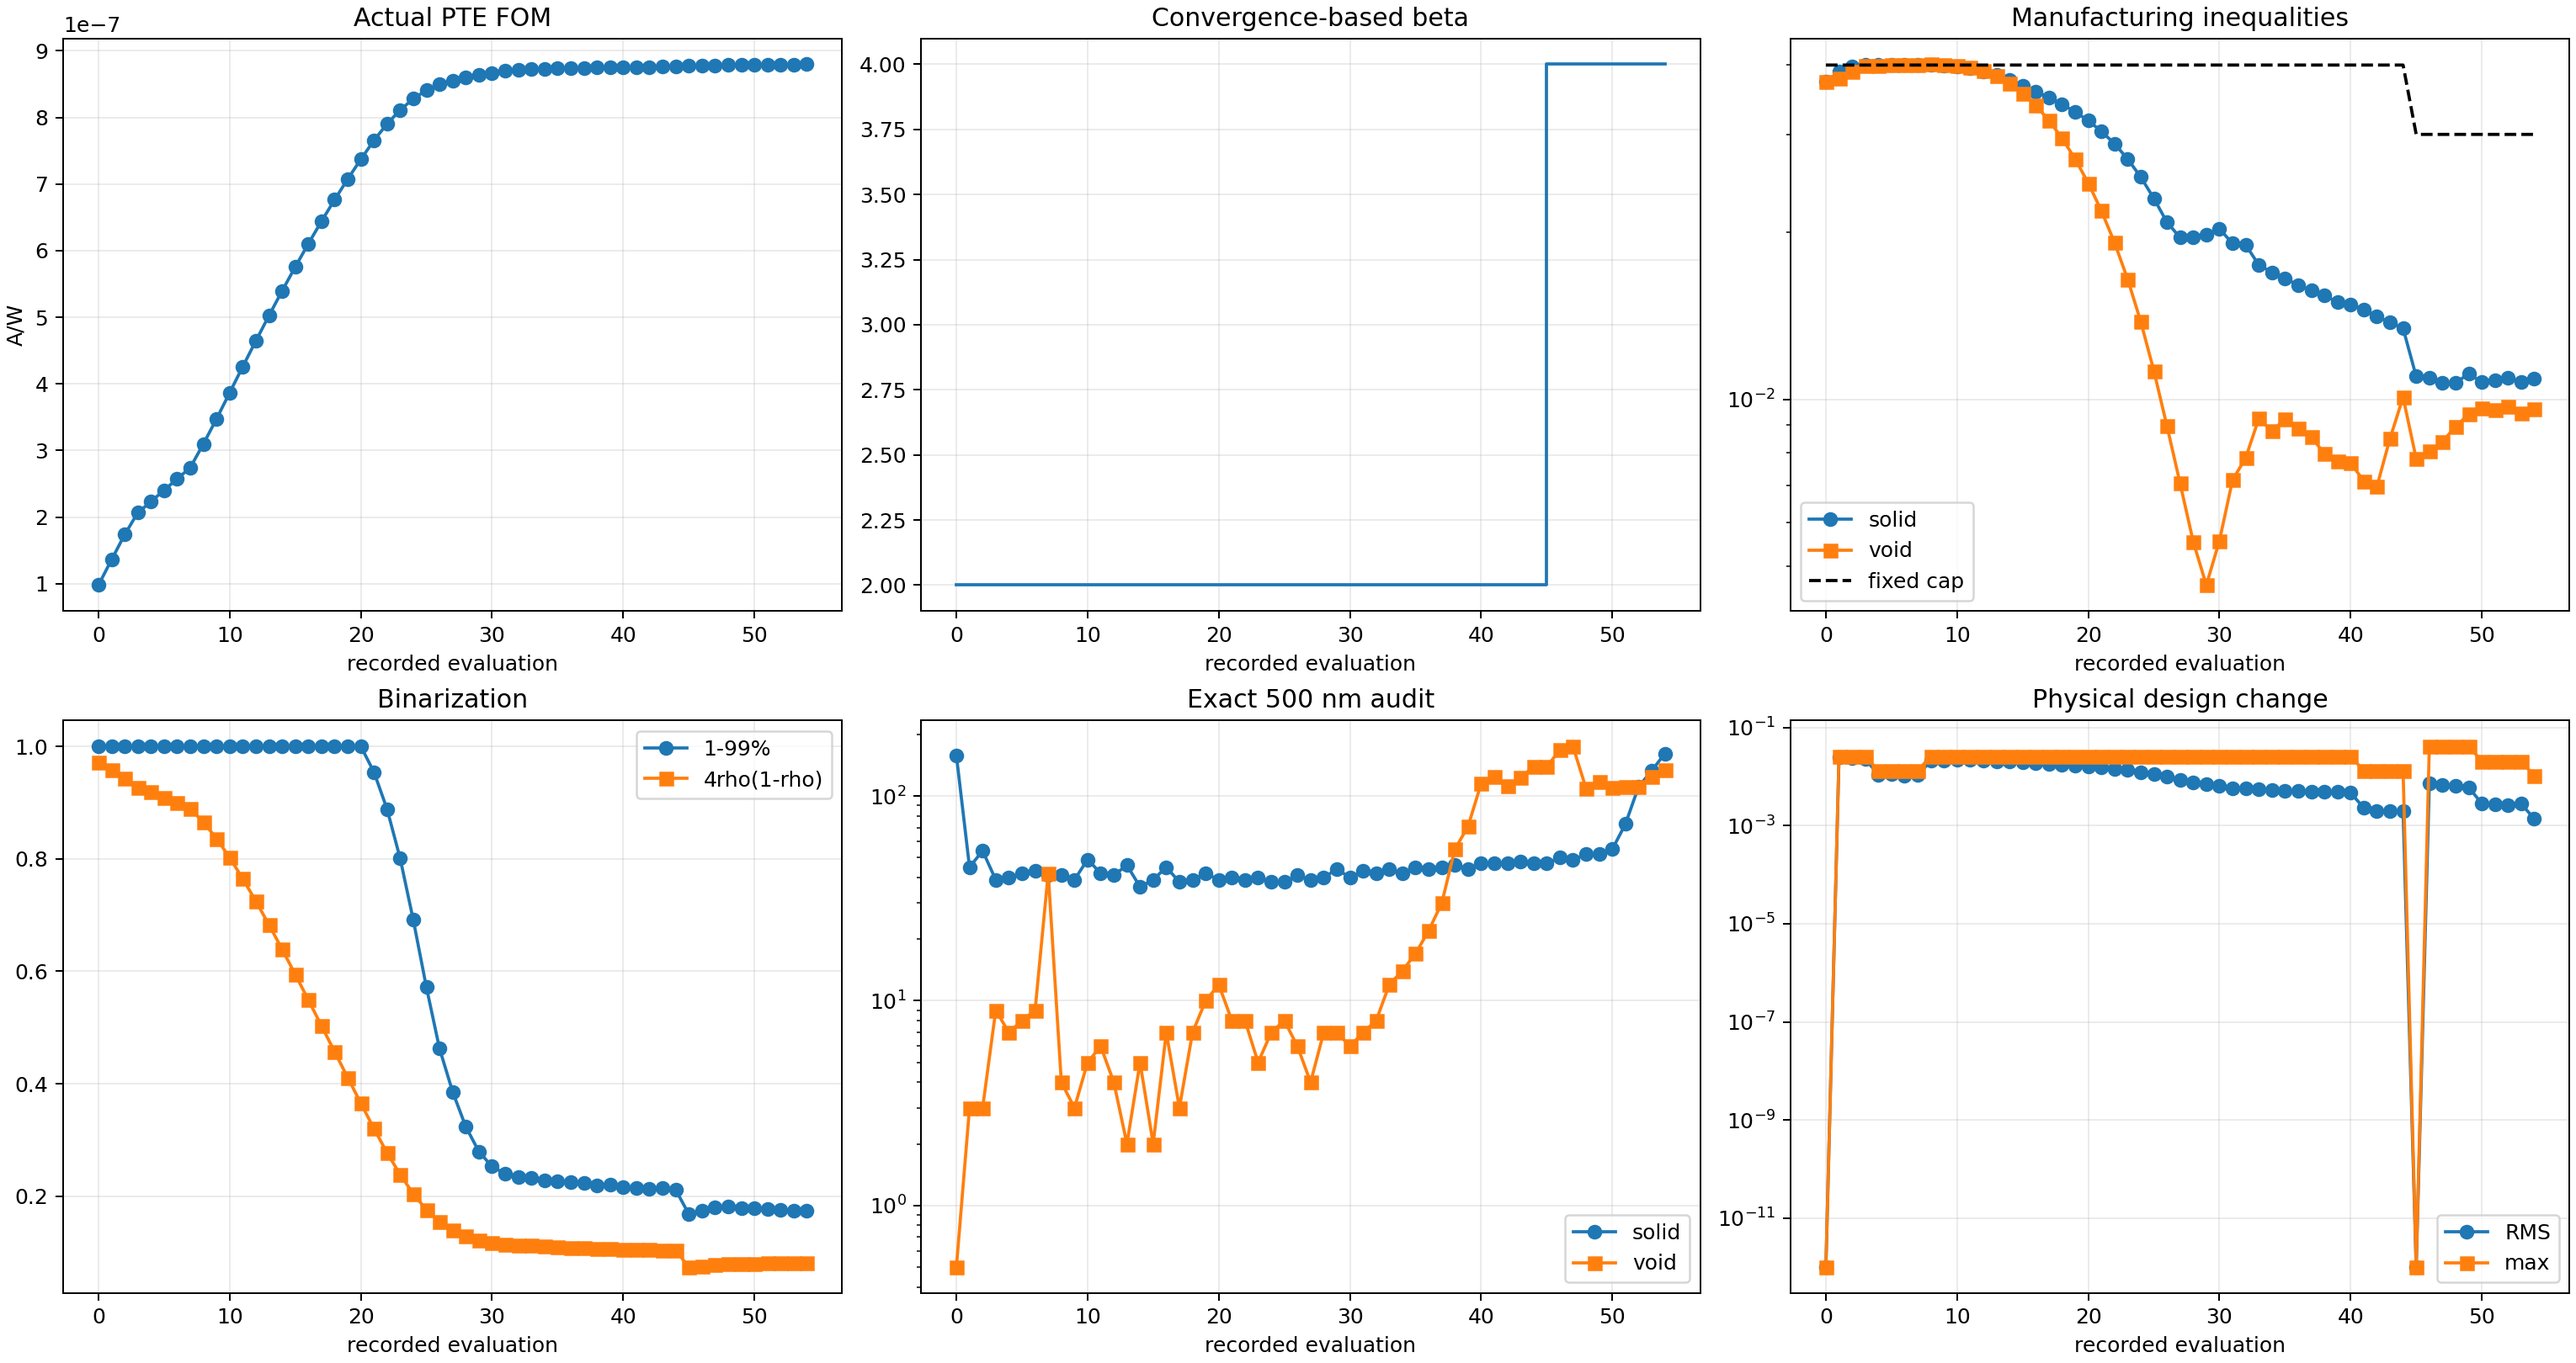
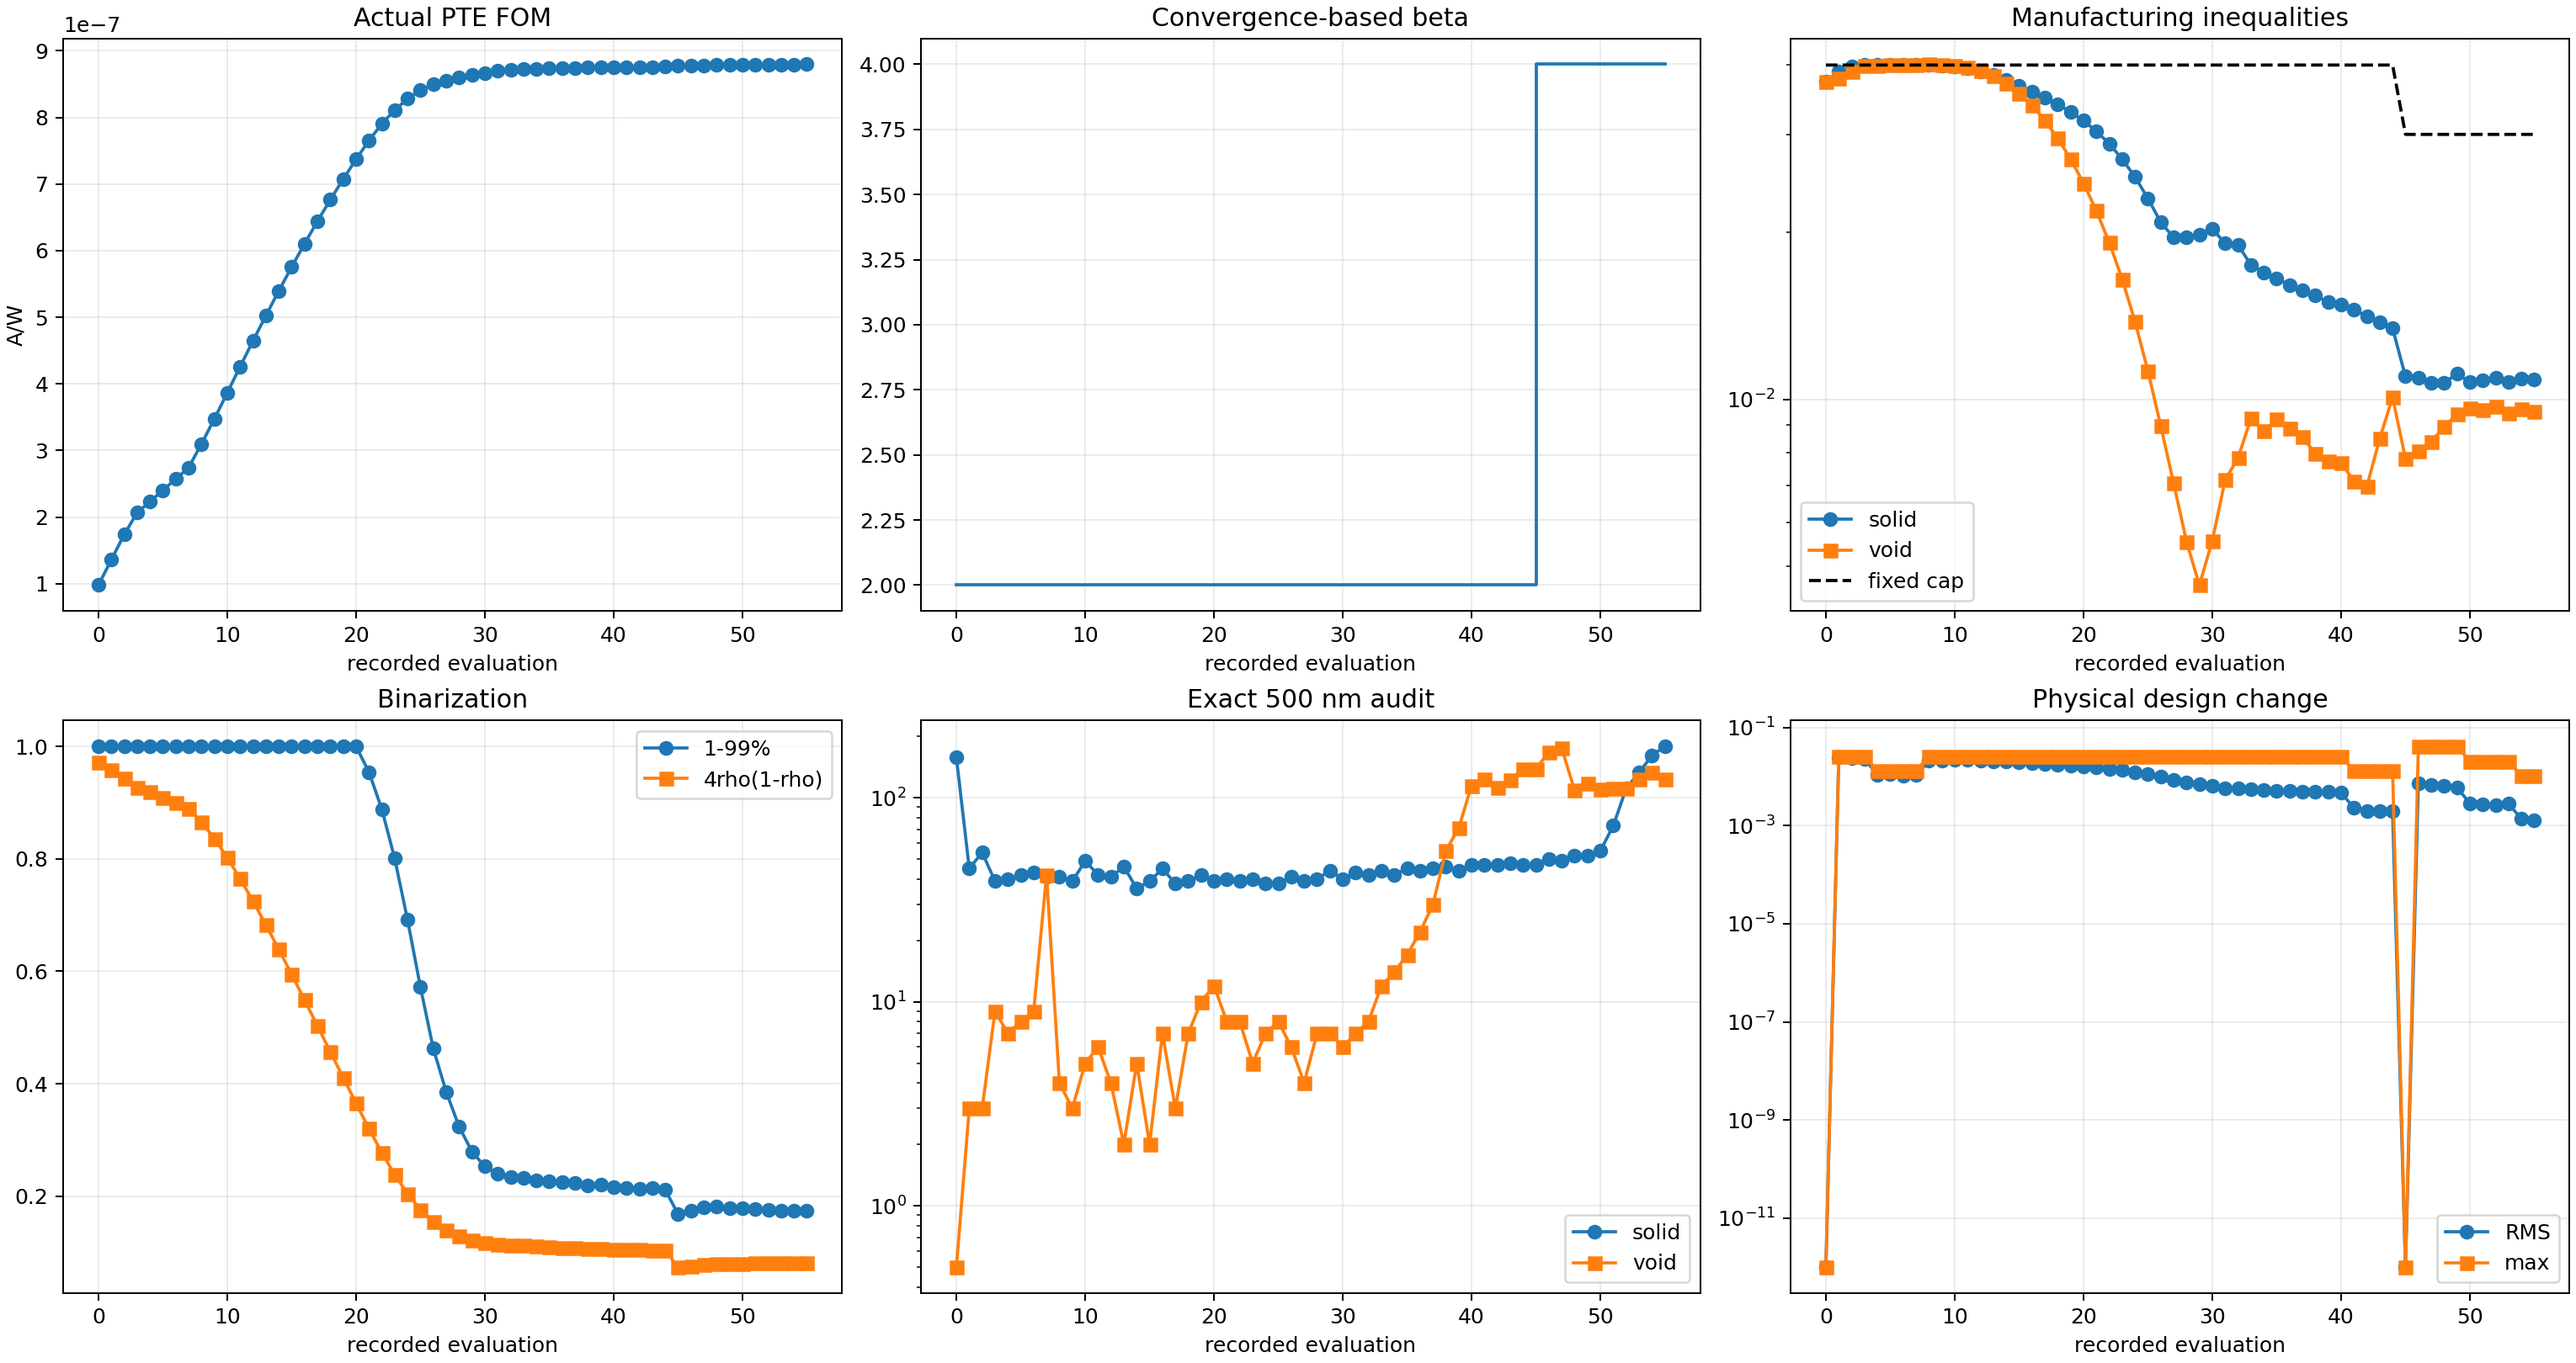
Record Run 003 run003_b004_s010_g054_accepted_mma

diff --git a/photothermal_pte/optimization_runs/run_003_gaussian10_w8p5_current_max_converged/results/OPTIMIZATION_REPORT.md b/photothermal_pte/optimization_runs/run_003_gaussian10_w8p5_current_max_converged/results/OPTIMIZATION_REPORT.md
@@ -2,10 +2,10 @@
 
 Status: `RUNNING_CONVERGENCE_BASED_CONSTRAINED_BETA_CONTINUATION`
 
-Current stage: beta=4, accepted stage iteration=9, global iteration=53.
+Current stage: beta=4, accepted stage iteration=10, global iteration=54.
 
-Actual FOM: `8.797373215808e-07 A/W`. Fixed-cap solid/void constraints: `1.087834e-02` / `9.610694e-03` with cap `3.000000e-02`.
+Actual FOM: `8.798094948099e-07 A/W`. Fixed-cap solid/void constraints: `1.087039e-02` / `9.511561e-03` with cap `3.000000e-02`.
 
-Exact 500 nm bad cells: solid `161`, void `134`. Stage convergence: `False` (recent FOM/density changes have not plateaued).
+Exact 500 nm bad cells: solid `179`, void `124`. Stage convergence: `False` (recent FOM/density changes have not plateaued).
 
 Beta is promoted only after fixed-inequality feasibility and a four-update FOM/design plateau; it is never promoted after one nominal update.
